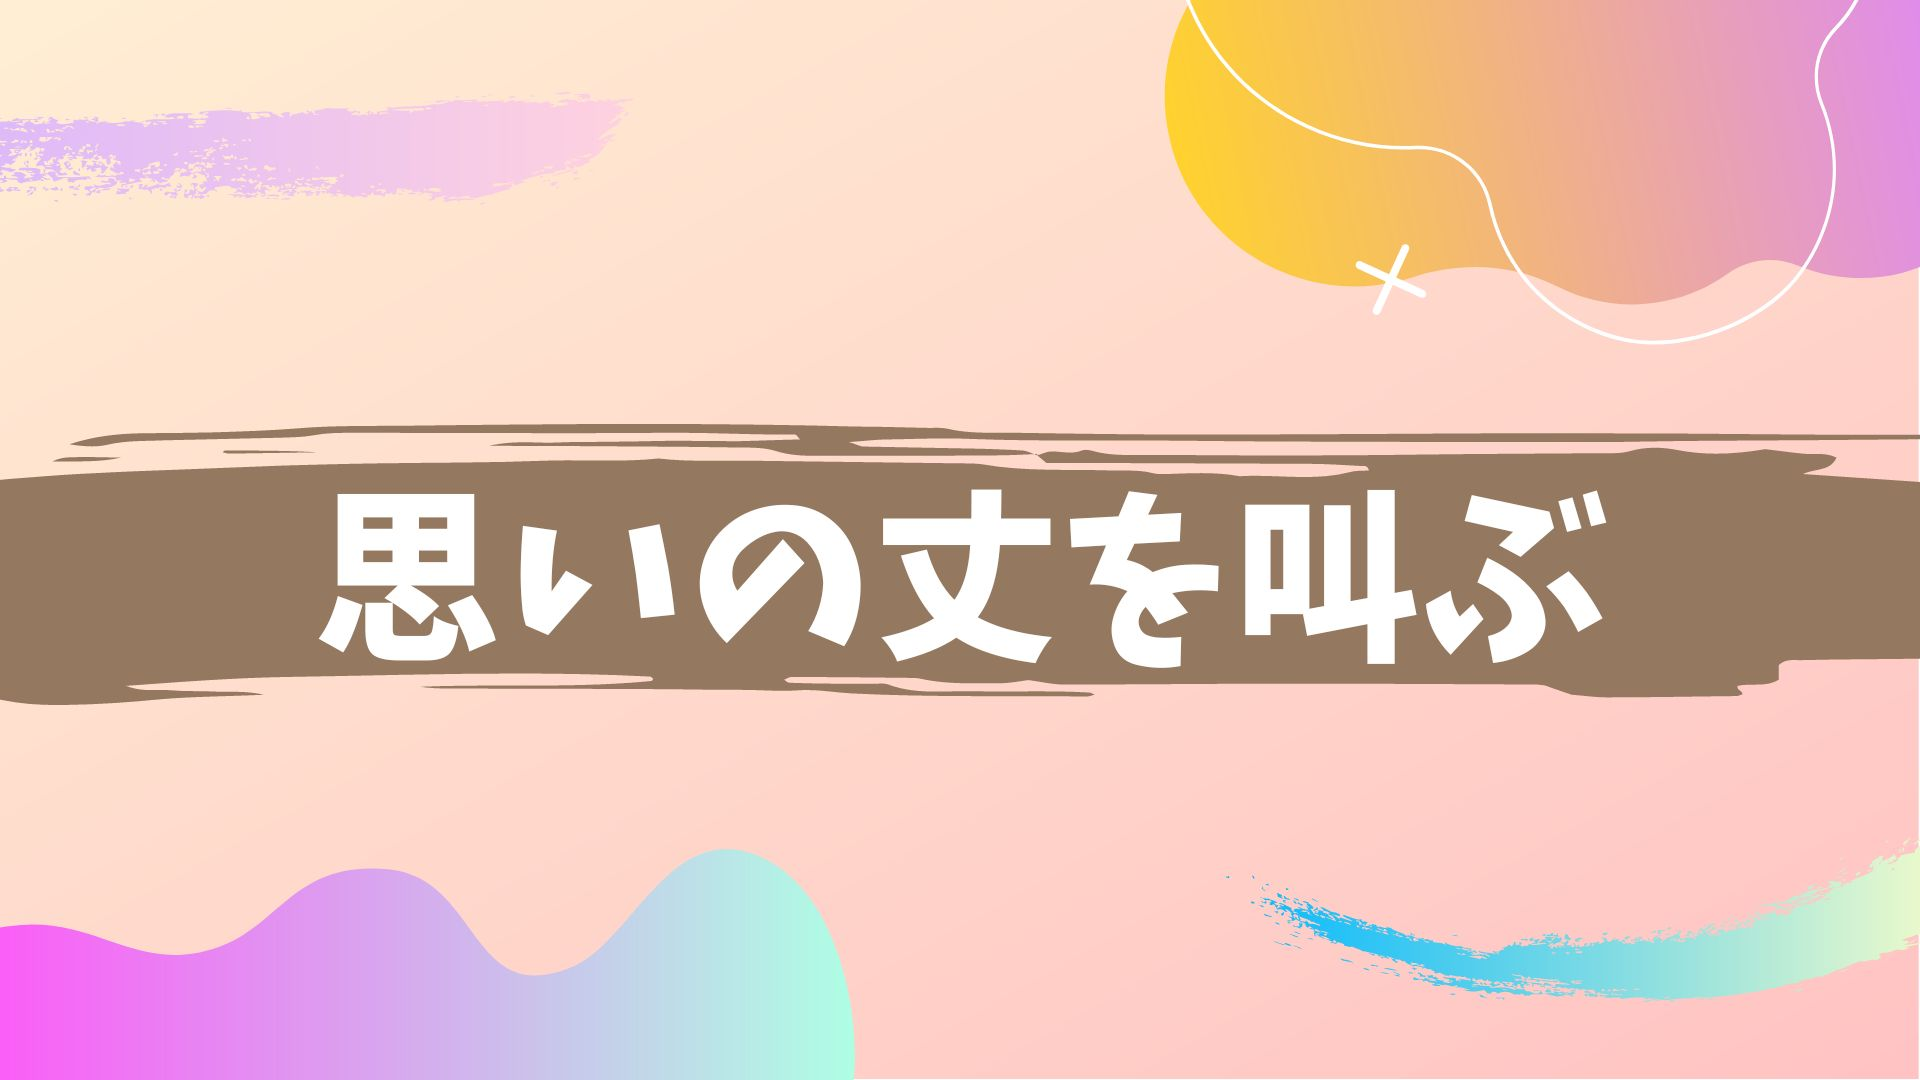
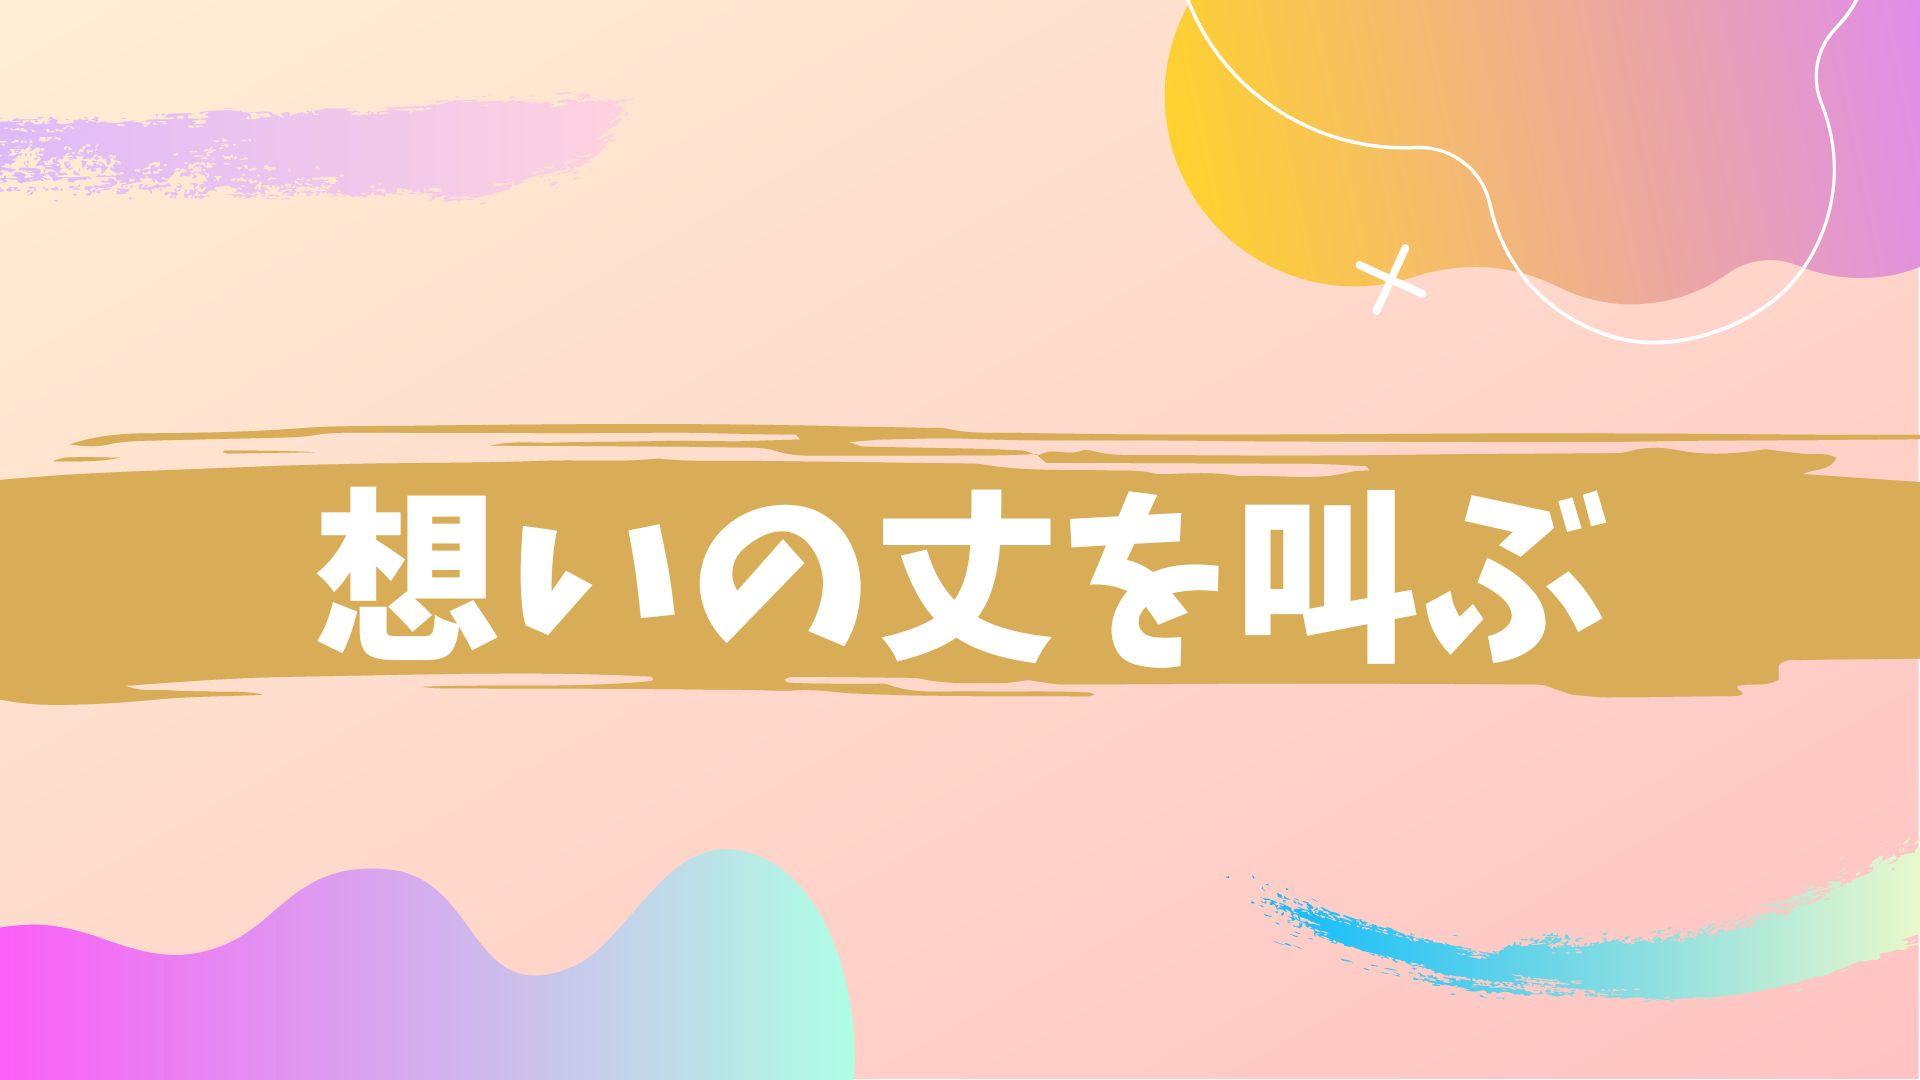
shout page

Changed region(s): [[0.0, 0.3667, 1.0, 0.6722]]

diff --git a/html/post.html b/html/post.html
@@ -5,7 +5,7 @@
   <meta http-equiv="X-UA-Compatible" content="IE=edge">
   <meta name="viewport" content="width=device-width, initial-scale=1.0">
   <link href="https://cdn.jsdelivr.net/npm/bootstrap@5.0.2/dist/css/bootstrap.min.css" rel="stylesheet" integrity="sha384-EVSTQN3/azprG1Anm3QDgpJLIm9Nao0Yz1ztcQTwFspd3yD65VohhpuuCOmLASjC" crossorigin="anonymous">
-  <title>Document</title>
+  <title>想いの丈を叫ぶ</title>
   <link rel="stylesheet" href="../css/post.css">
   <script
   src="https://code.jquery.com/jquery-3.6.1.js"
@@ -13,9 +13,20 @@
   crossorigin="anonymous" defer></script>
   <script src="../js/main.js" defer></script>
 </head>
+<nav class="navbar">
+  <a onclick="history.back(); return false;" href="#">
+    <img src="../img/back.png" alt="" class="back">
+  </a>
+  <div class="p-header__logo">
+    <img src="../img/logo.svg" alt="POSSE">
+  </div>
+  <a href="../html/index.html">
+    <img src="../img/home.png" alt="home" class="home">
+  </a>
+</nav>
 <body class="bg-light">
-  <div class="container w-75"> <!-- containerで括ってwidthを75%までに設定 -->
-    <h1 class="text-center text-info my-4">anonymous</h1>
+  <div class="container w-75">
+    <h1 class="text-center text-info my-4">想いの丈を叫ぶ</h1>
       <form id="form" class="mb-4">
         <input type="text" id="input" class="form-control" placeholder="投稿を入力" autocomplete="off">
       </form>

diff --git a/css/post.css b/css/post.css
@@ -1,3 +1,77 @@
+
+
+*,
+::before,
+::after {
+  box-sizing: border-box;
+  border-style: solid;
+  border-width: 0;
+}
+
+html {
+  -webkit-text-size-adjust: 100%;
+  -webkit-tap-highlight-color: transparent;
+  line-height: 1.15;
+}
+
+body {
+  margin: 0;
+  font-family: "Noto Sans JP", sans-serif;
+  height: 100vh;
+}
+
+main {
+  display: block;
+}
+
+img {
+  max-width: 100%;
+}
+
+.navbar {
+  position: fixed;
+  padding: 0 16px;
+  top: 0;
+  height: 60px;
+  width: 100%;
+  display: flex;
+  align-items: center;
+  justify-content: space-between;
+  background: white;
+  z-index: 100;
+}
+
+.slide-container{
+  display: flex;
+  justify-content: center;
+}
+
+.home{
+  height: 30px;
+}
+
+.back{
+  height: 30px;
+}
+
+.bg-light{
+  margin-top: 60px;
+}
+
+.my-4{
+  background-image: url(../img/megaphone1.jpg);
+  background-size: cover;
+  height: 300px;
+}
+
+@media(min-width: 720px){
+  .my-4{
+    background-image: url(../img/megaphone2-1.jpg);
+    background-size: cover;
+  }
+}
+
+
 .reply-button {
   display: block;
   margin: 0 0 0 auto;

diff --git a/html/index.html b/html/index.html
@@ -5,30 +5,17 @@
   <meta http-equiv="X-UA-Compatible" content="IE=edge">
   <meta name="viewport" content="width=device-width, initial-scale=1.0">
   <link rel="stylesheet" href="../css/style.css">
-  <title>Document</title>
+  <title>トップページ</title>
 </head>
 <body>
   <nav class="navbar">
-    <a onclick="history.back(); return false;" href="#">
-      <img src="../img/back.png" alt="" class="back">
-    </a>
     <div class="p-header__logo">
       <img src="../img/logo.svg" alt="POSSE">
     </div>
-    <a href="../html/index.html">
-      <img src="../img/home.png" alt="home" class="home">
-    </a>
   </nav>
-  <!-- hero -->
-  <header class="hero">
-    <div class="banner">
-        <img src=../img/express.jpg alt="item">
-    </div>
-  </header>
-  <!-- end of hero -->
   <section class="products">
     <div class="section-title">
-      <h2>POSSE文化一覧</h2>
+      <h2 class="top-title">POSSEカルチャー</h2>
     </div>
     <div class="items-center" id="items-container">
       <!-- single product -->

diff --git a/html/golf.html b/html/golf.html
@@ -6,7 +6,7 @@
   <meta name="viewport" content="width=device-width, initial-scale=1.0">
   <link rel="stylesheet" href="../css/golf.css">
   <script src="../js/back.js"></script>
-  <title>Document</title>
+  <title>ゴルフ部</title>
 </head>
 <body> 
   <nav class="navbar">
@@ -32,7 +32,7 @@
     <div class="activity-container">
       <div class="activity-description">
         <h2 class="headline">紹介</h2>
-        <p class="description">ゴルフ大好きなPOSSE生がたくさん集まっています!!</p>
+        <p class="description">ゴルフ大好きなPOSSE生がたくさん集まっています!! 土日はみんなで霞ヶ関カンツリークラブに行っています！！ 初心者だよって人も大歓迎です！ みんなでレッツゴルフ！！</p>
       </div>
     </div>
   </body>

diff --git a/css/golf.css b/css/golf.css
@@ -97,7 +97,7 @@ img {
 	margin:		0;
 	padding:	0;
 	color:		#fff;
-	background:	rgba(69, 216, 243, 0.4); /* 帯の透明度 */
+	background:	rgba(69, 216, 243, 0.7); /* 帯の透明度 */
 	position:	absolute; 
   z-index: 12;
 }
@@ -106,7 +106,6 @@ img {
   display: block;
   position: absolute;
   margin-top: 450px;
-  margin-bottom: 100px;
 }
 
 @media (max-width: 480px){
@@ -132,8 +131,18 @@ img {
 .activity-description{
   width: 100%;
   max-width: 1032px;
+  margin-bottom: 100px;
+  
 }
 
 .headline{
+  text-align: center;
+  padding-top: 5px;
+  border-radius: 20px;
+  color: white;
+  width: 90px;
+  height: 50px;
   font-size: 30px;
+  background-color: 	rgba(69, 216, 243, 0.7);
 }
+

diff --git a/css/style.css b/css/style.css
@@ -33,7 +33,7 @@ img {
   width: 100%;
   display: flex;
   align-items: center;
-  justify-content: space-between;
+  justify-content: center;
   background: white;
   z-index: 1;
 }
@@ -72,6 +72,21 @@ img {
   margin-bottom: 5rem;
   text-transform: capitalize;
   letter-spacing: var(--mainSpacing);
+}
+
+.section-title{
+  height: 300px;
+  background-image: url(../img/top_background.png);
+  background-size: cover;
+  display: flex;
+  justify-content: center;
+  align-items: center;
+}
+
+.top-title{
+  width: 100%;
+  background-color: rgb(22, 109, 239);
+  color: white;
 }
 
 .items-center {

diff --git a/html/activity.html b/html/activity.html
@@ -5,7 +5,7 @@
   <meta http-equiv="X-UA-Compatible" content="IE=edge">
   <meta name="viewport" content="width=device-width, initial-scale=1.0">
   <link rel="stylesheet" href="../css/activity.css">
-  <title>Document</title>
+  <title>POSSE部活</title>
 </head>
 <body>
   <nav class="navbar">
